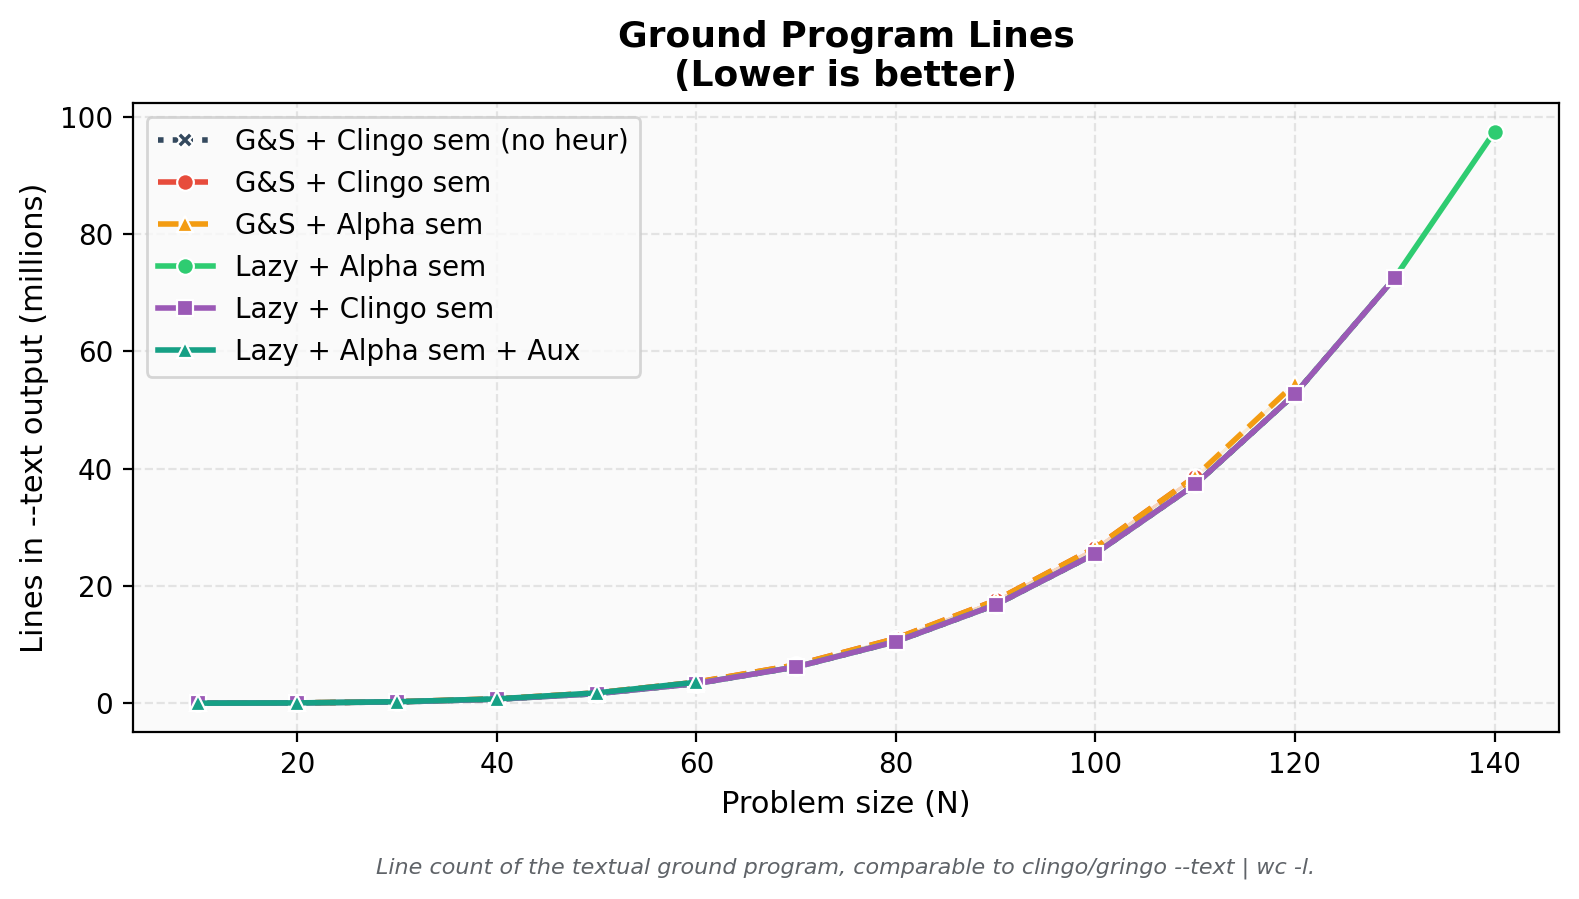
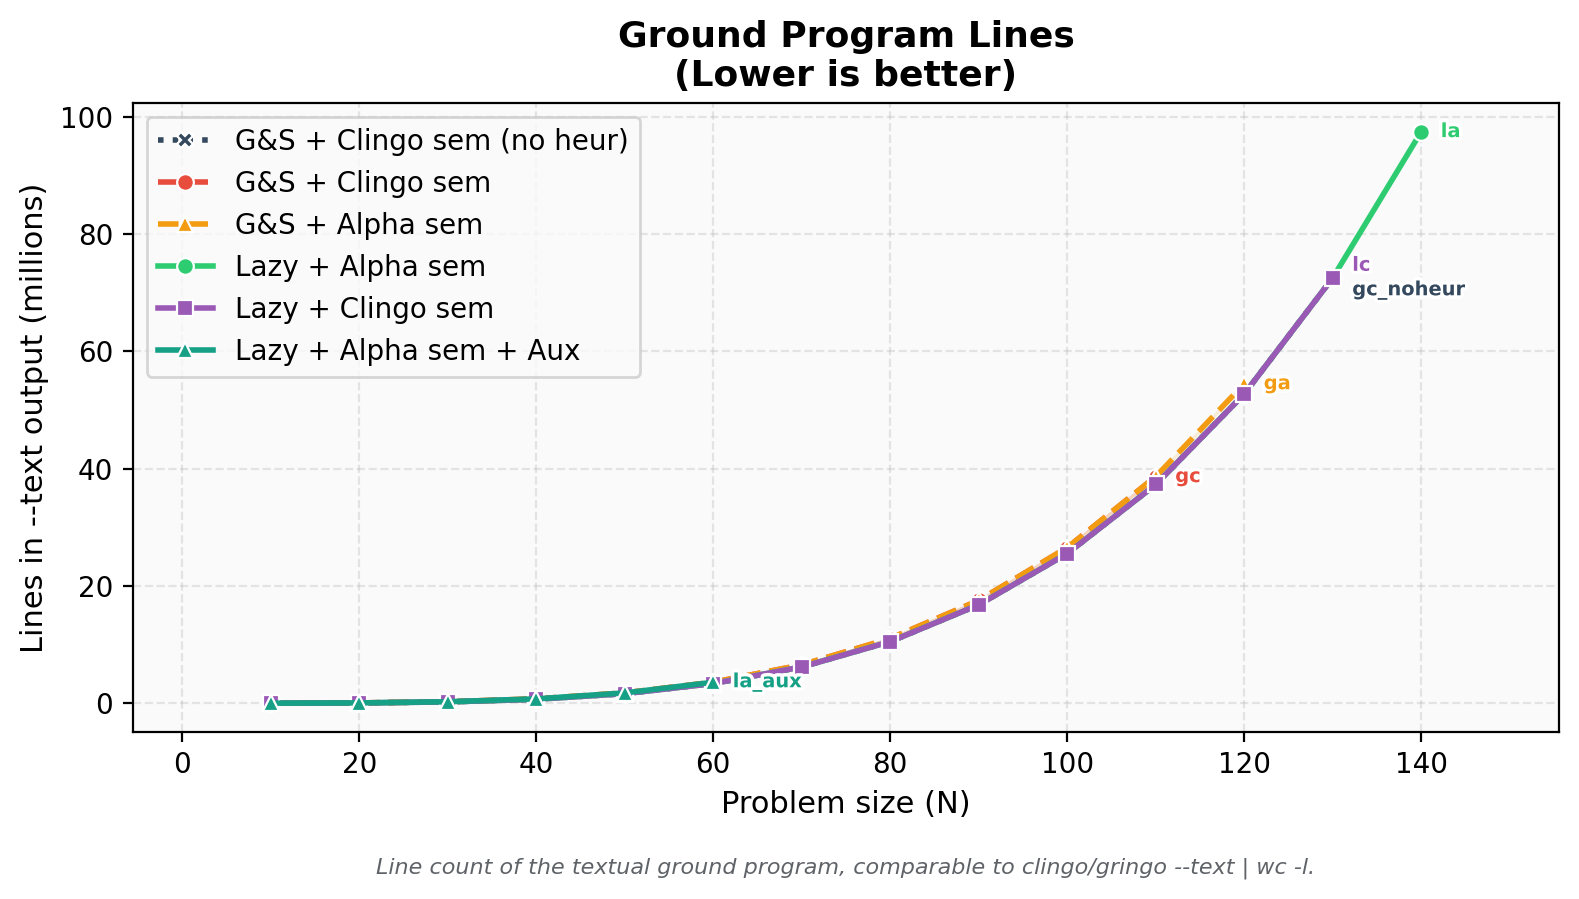
sistemati grafici

diff --git a/test_folder/tools/gen_graphs.py b/test_folder/tools/gen_graphs.py
@@ -558,6 +558,10 @@ OFFSET_METRICS = {
     "variables",
 }
 ENDPOINT_LABEL_METRICS = {
+    "grounding_s",
+    "solving_ms_per_choice",
+    "ground_lines",
+    "memory_mb",
     "ground_lazy_heuristic_facts",
     "ground_heuristics",
     "combined_heuristics",
@@ -1736,17 +1740,15 @@ def _plot_grounding_time_vs_heuristic_size(ax, stats, theme) -> bool:
 def _plot_lazy_solving_overhead(ax, stats, theme) -> bool:
 
     has_data = False
-    for standard, lazy in _available_lazy_solving_overhead_pairs(stats, theme):
-        n_vals, standard_solving, lazy_solving = _aligned_cross_metric_pair(
-            stats,
-            standard,
-            "solving_s",
-            lazy,
-            "solving_s",
-        )
+    pairs = _available_lazy_solving_overhead_pairs(stats, theme)
+    common_n = _common_lazy_solving_overhead_ns(stats, pairs)
+    for standard, lazy in pairs:
+        standard_map = _metric_mean_map(stats, standard, "solving_s")
+        lazy_map = _metric_mean_map(stats, lazy, "solving_s")
+        n_vals = common_n
         ratios = [
-            _positive_ratio(laz, std)
-            for std, laz in zip(standard_solving, lazy_solving)
+            _positive_ratio(lazy_map[n], standard_map[n])
+            for n in n_vals
         ]
         if not _has_positive_finite(ratios):
             continue
@@ -1767,10 +1769,29 @@ def _plot_lazy_solving_overhead(ax, stats, theme) -> bool:
     ax.axhline(1.0, color="#555", linewidth=1, linestyle="--")
     if has_data:
         ax.set_yscale("log")
-        domain = _all_metric_ns(stats, ["solving_s"])
-        if domain:
-            ax.set_xlim(min(domain), max(domain))
+        ax.set_xlim(min(common_n), max(common_n))
     return has_data
+
+
+def _common_lazy_solving_overhead_ns(stats, pairs):
+
+    import math
+
+    common_n = None
+    for standard, lazy in pairs:
+        standard_map = _metric_mean_map(stats, standard, "solving_s")
+        lazy_map = _metric_mean_map(stats, lazy, "solving_s")
+        valid_n = {
+            n
+            for n in set(standard_map.keys()) & set(lazy_map.keys())
+            if (
+                math.isfinite(ratio := _positive_ratio(lazy_map[n], standard_map[n]))
+                and ratio > 0
+            )
+        }
+        common_n = valid_n if common_n is None else common_n & valid_n
+
+    return sorted(common_n or [])
 
 
 def _available_lazy_solving_overhead_pairs(stats, theme):
